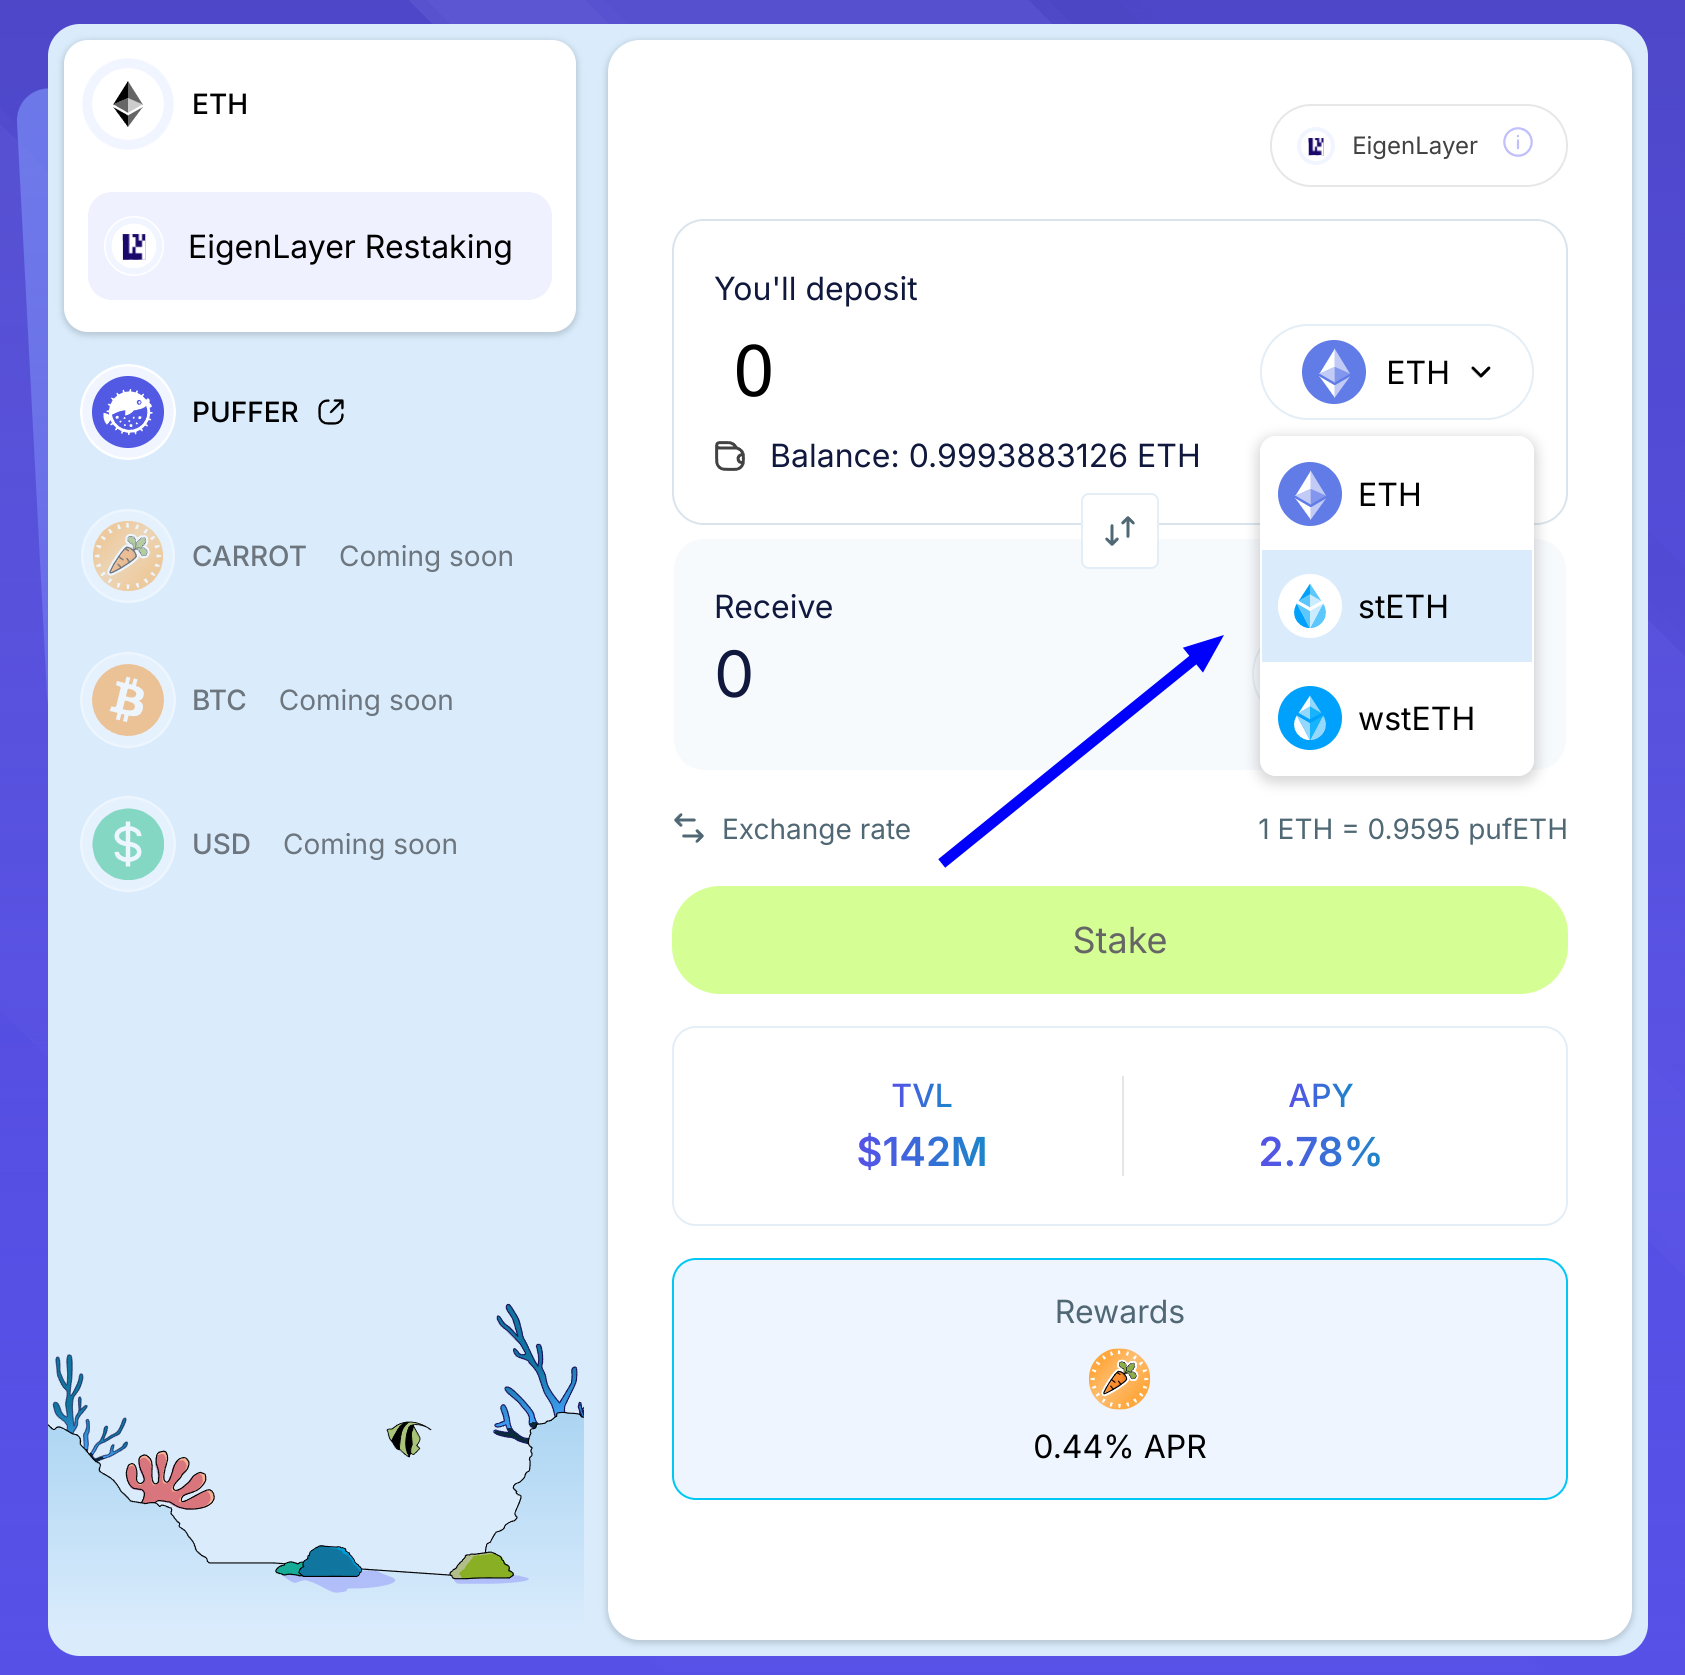
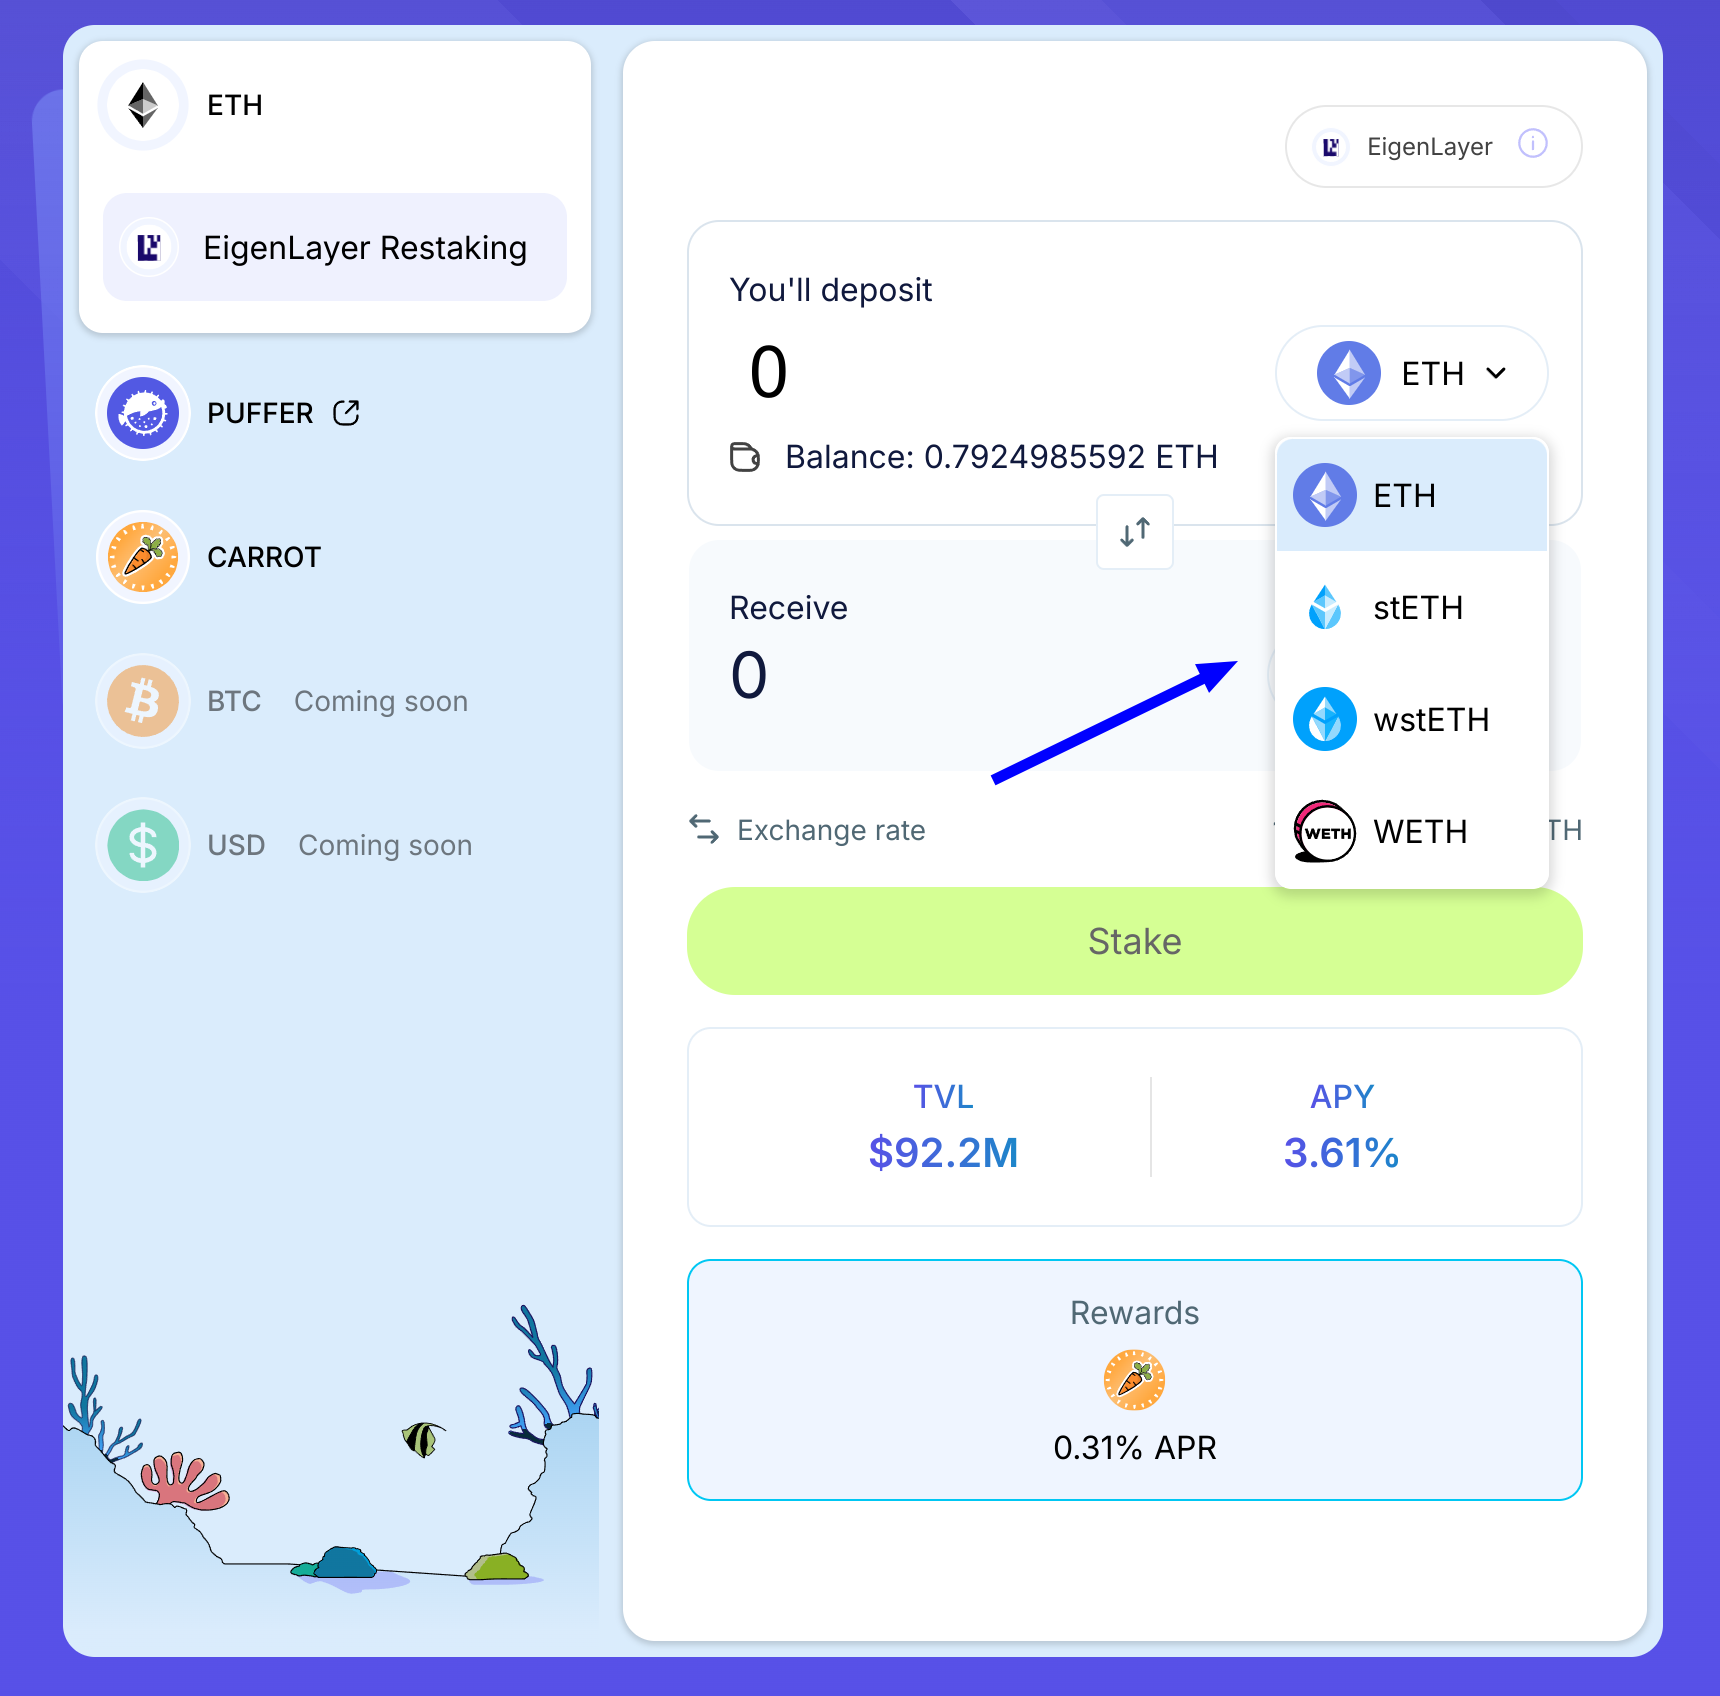
Added WETH staking to the docs

diff --git a/docs/stake.md b/docs/stake.md
@@ -20,16 +20,13 @@ The Puffer Protocol app currently supports the following assets:
 - **ETH**: The native token of the Ethereum blockchain.
 - **stETH**: A liquid staking token for Ethereum that represents the staked version of ETH in the Lido protocol. It is pegged 1:1 with ETH.
 - **wstETH**: A wrapped version of stETH. It is not 1:1 with stETH.
+- **WETH**: A wrapped version of ETH. It is 1:1 with ETH.
 
 ![Select Asset](/img/stake/select_asset.png)
 
-:::info
-The Puffer Protocol actually supports WETH as well. However the frontend app does not currently support it. In order to stake WETH, you can interact directly with the smart contract or unwrap your WETH into ETH and stake it through the frontend app.
-:::
-
 ## Select amount
 
-You can select the amount of ETH, stETH, or wstETH you want to stake. The app will automatically calculate the amount of pufETH you will receive in return. The exchange rate will be the same for ETH and stETH since they are pegged 1:1. For wstETH, the exchange rate will be different.
+You can select the amount of ETH, stETH, wstETH, or WETH you want to stake. The app will automatically calculate the amount of pufETH you will receive in return. The exchange rate will be the same for ETH, WETH and stETH since they are pegged 1:1. For wstETH, the exchange rate will be different.
 
 ![Select Amount](/img/stake/select_amount.png)
 
@@ -42,5 +39,7 @@ Once you have selected the amount you want to stake, you can click on the "Stake
 In the case of stETH and wstETH, you will need to first sign a Permit in order to allow the Puffer Protocol to spend your stETH/wstETH. Please note that the Permit is a signature and not a transaction, so you will not be charged any gas fees for it.
 
 In the case of ETH, no Permit is needed since ETH is a native token on the Ethereum blockchain.
+
+If you are staking WETH, you will need to sign a transaction to approve the Puffer Protocol to spend your WETH.
 
 In any case, you will need to sign a transaction to stake your funds and receive your pufETH.
